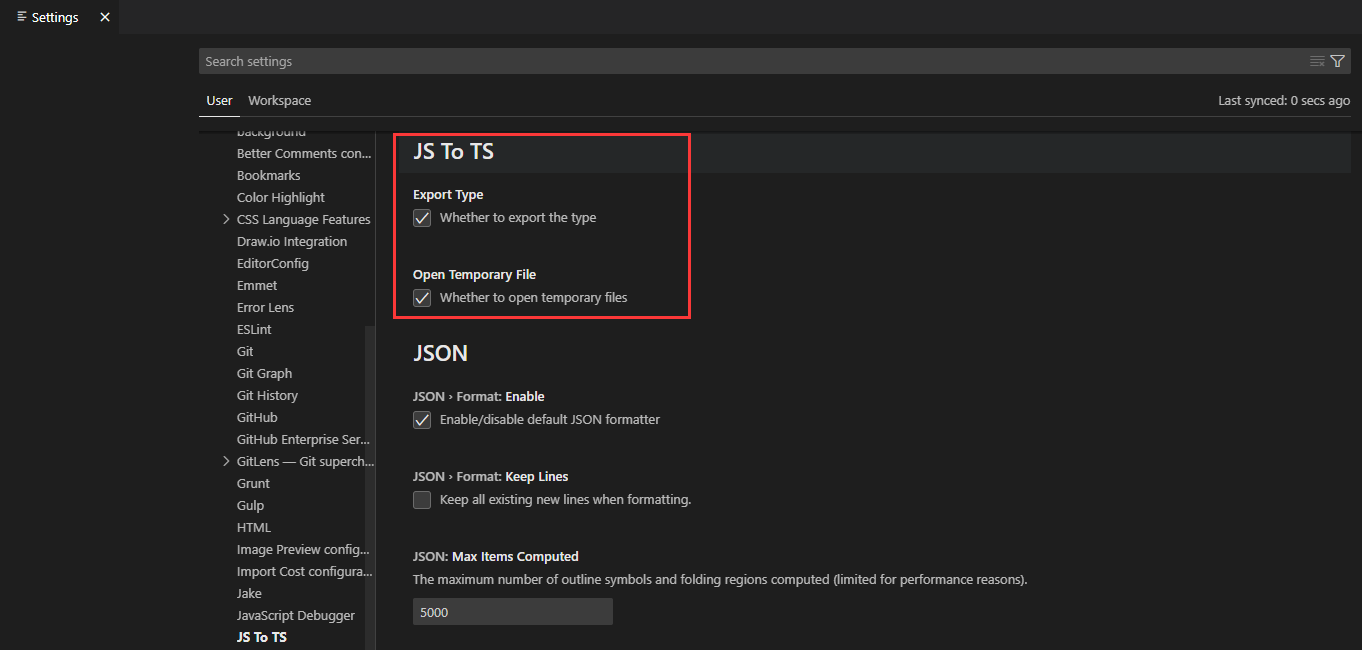
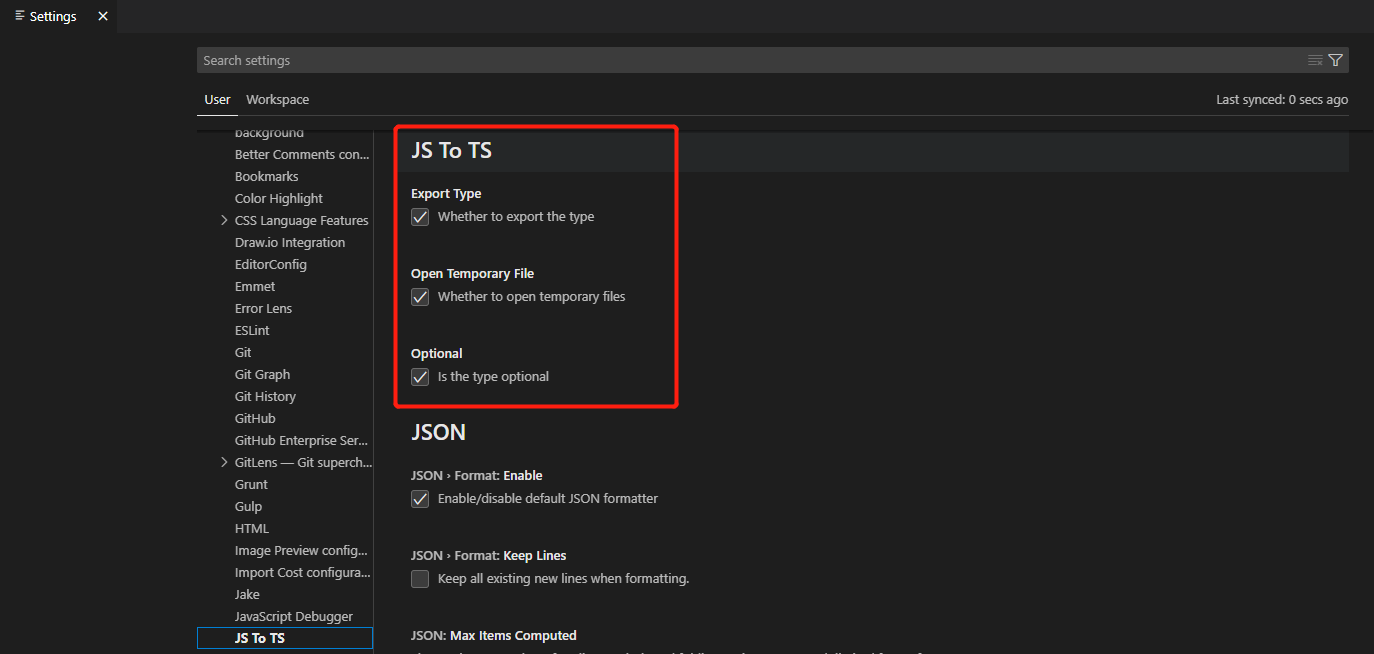
feat: add optional control

Changed region(s): [[0.1542, 0.0615, 0.7401, 1.0], [0.8634, 0.0615, 1.0, 0.1846], [0.0, 0.0, 0.0617, 0.0615]]

diff --git a/src/Main.ts b/src/Main.ts
@@ -398,7 +398,9 @@ ${interfaceText.trim()}${content}
           key,
           t.tsTypeAnnotation(typeAnnotation)
         );
-        node.optional = true;
+
+        const optional = _that.getConfig(CustomConfig.OPTIONAL);
+        node.optional = optional;
         path.replaceWith(node);
       },
     };

diff --git a/src/constant.ts b/src/constant.ts
@@ -15,5 +15,6 @@ export enum Extra {
 
 export enum CustomConfig {
   OPEN_TEMPORARY_FILE = 'openTemporaryFile',
-  EXPORT_TYPE = 'exportType'
+  EXPORT_TYPE = 'exportType',
+  OPTIONAL ='optional'
 }

diff --git a/CHANGELOG.md b/CHANGELOG.md
@@ -1,3 +1,6 @@
+# 0.4.3 (2023-05-28)
+1. 添加配置`optional`
+
 # 0.4.2 (2023-05-27)
 1. 添加配置`openTemporaryFile`和`exportType`
 2. 未选择内容时按`ctrl+shift+j`会转换剪切板内容
